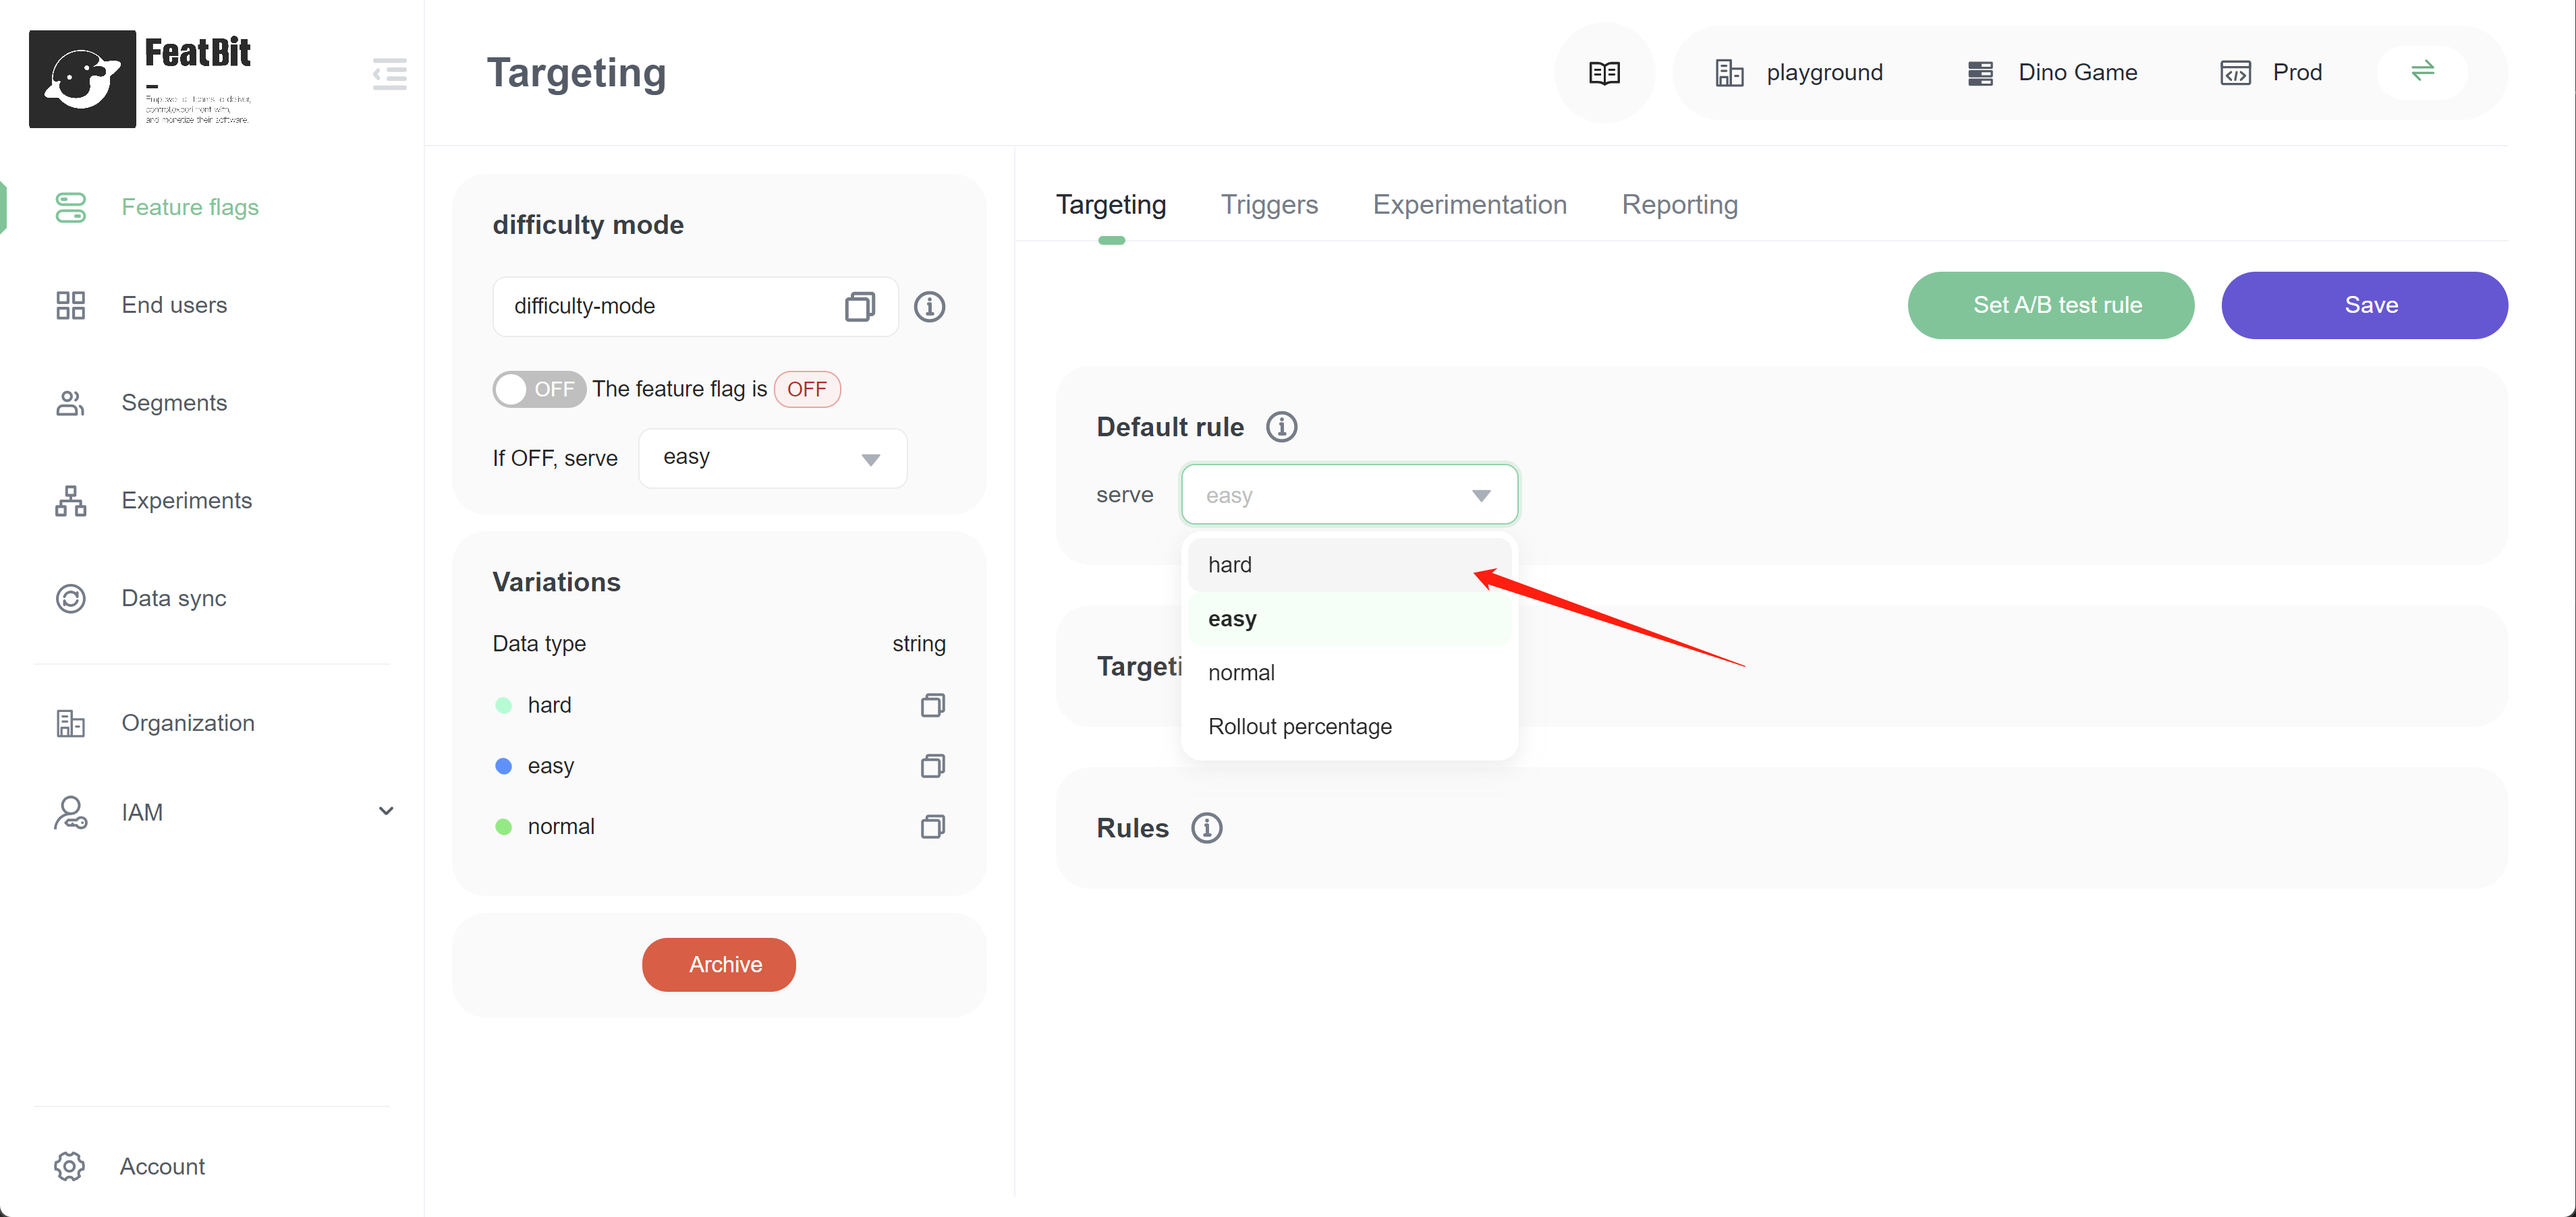
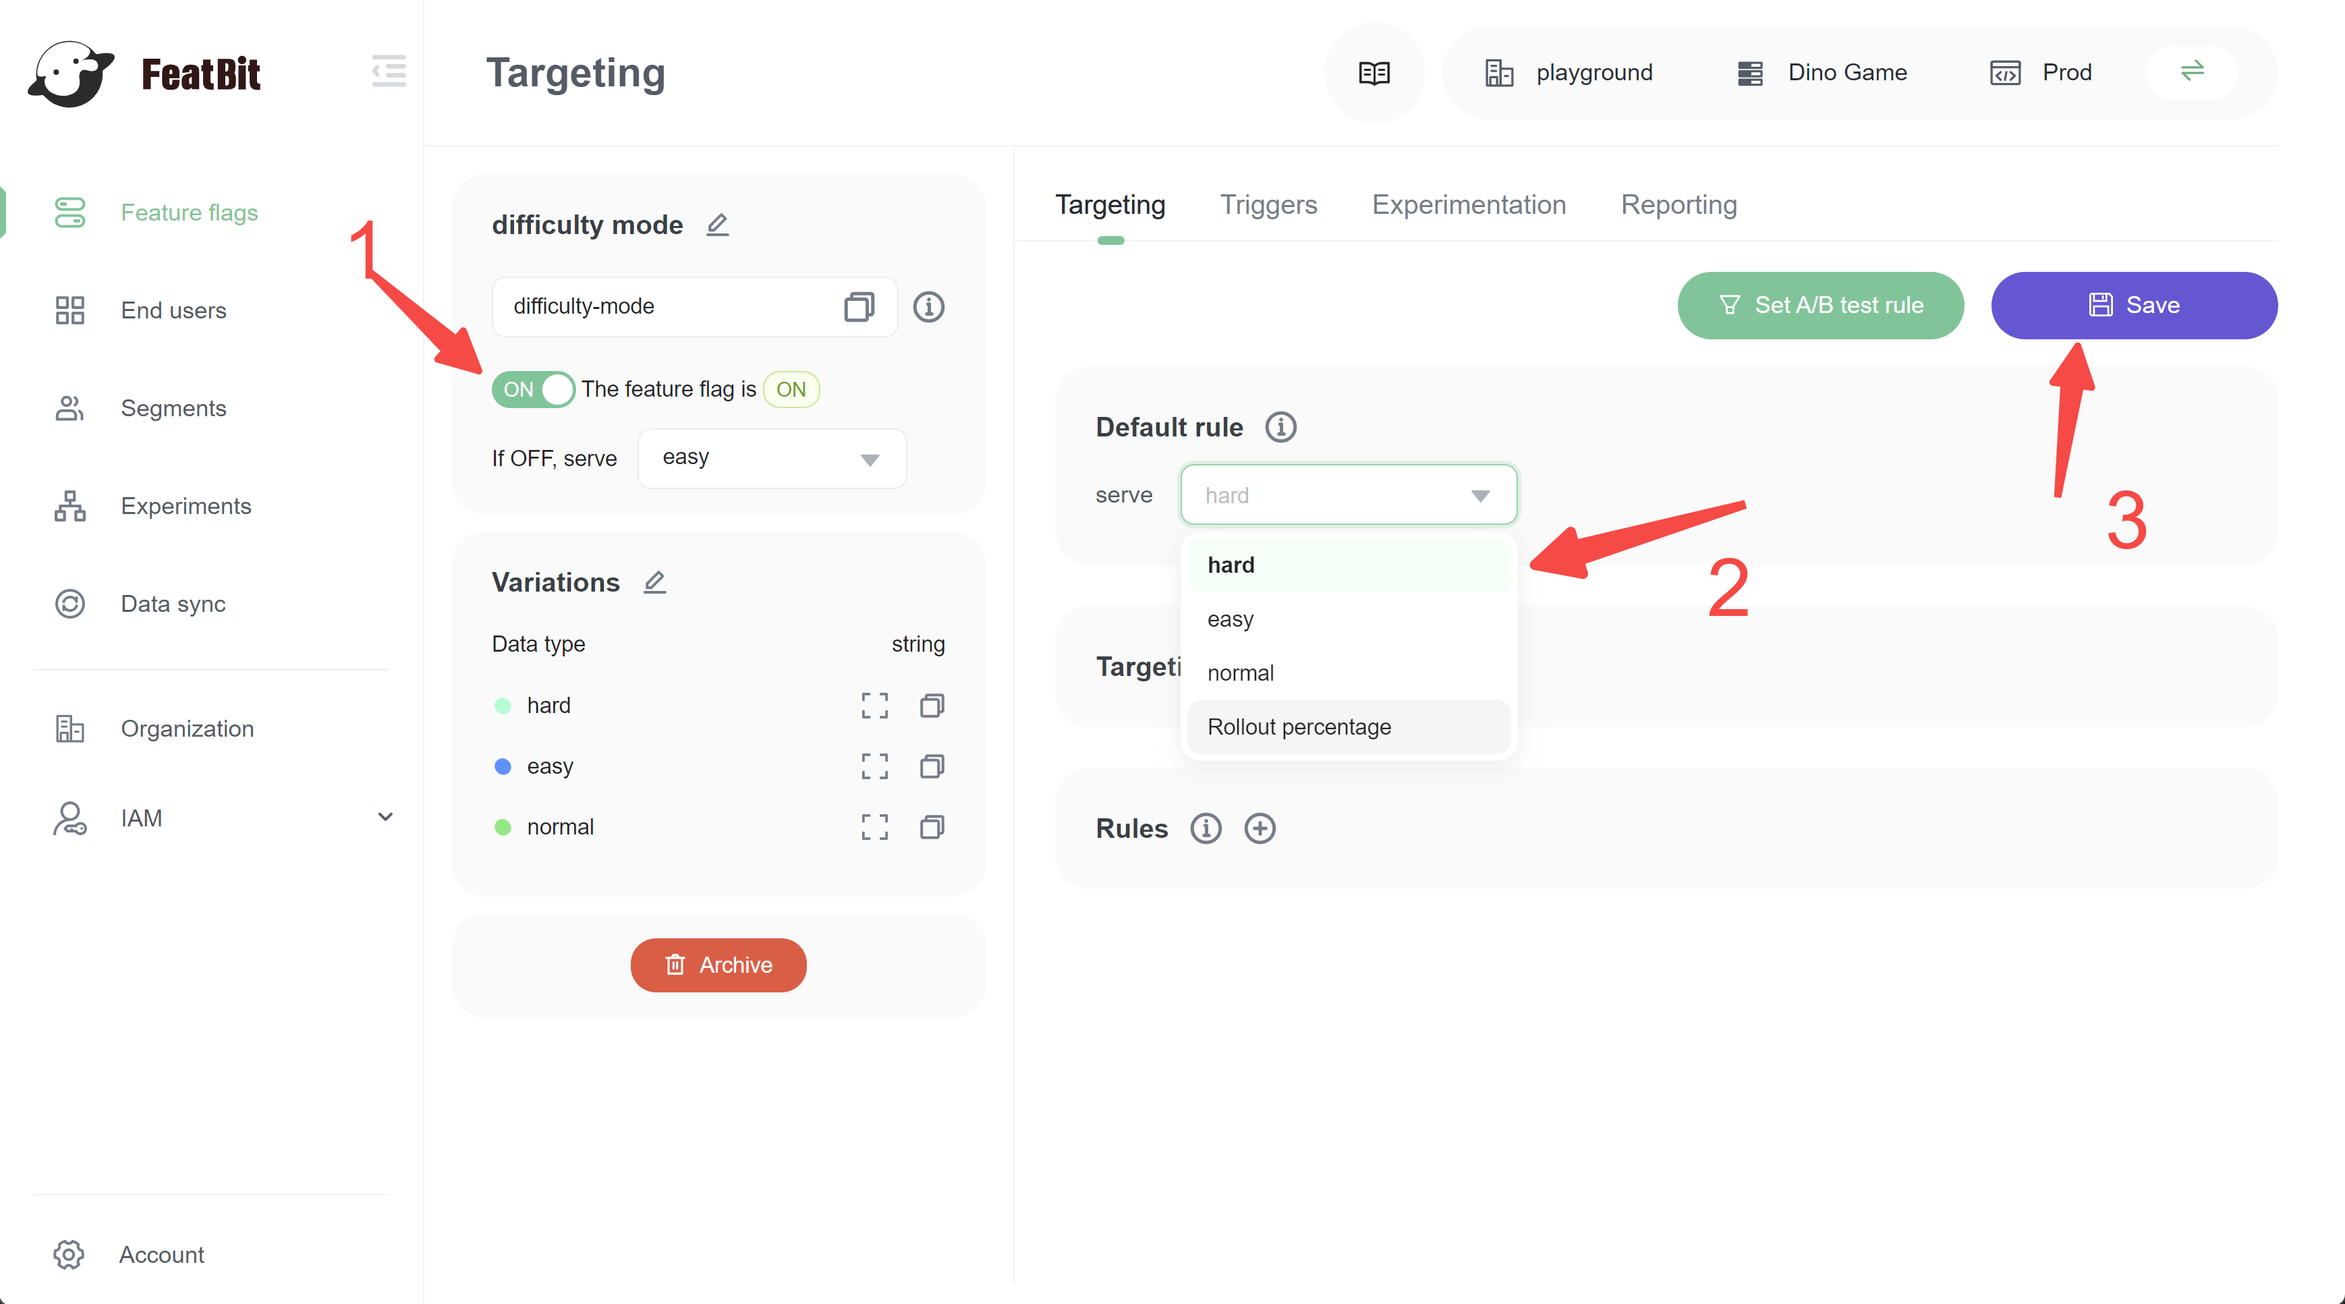
updated

diff --git a/samples/dino-game/interactive-demo-react/src/features/guides/components/StepComplete.js b/samples/dino-game/interactive-demo-react/src/features/guides/components/StepComplete.js
@@ -24,17 +24,17 @@ export function StepComplete() {
             <div className="steps">
                 <div >
                     <p>Congratulations! You have completed the Interactive Demo section of the Quick start section</p>
-                    <p>Next, we recommend that you check out the <a>Connect an SDK</a> section for a quick overview of how to use FeatBit to connect the Feature flags we've connected in this demo!
+                    <p>Next, we recommend that you check out the <a href="https://featbit.gitbook.io/docs/get-started/connect-an-sdk">Connect an SDK</a> section for a quick overview of how to use FeatBit to connect the Feature flags we've connected in this demo!
                     </p>
                     <ul>
-                        <li><a>Click here to go to the documentation page for Connect an SDK</a></li>
+                        <li><a href="https://featbit.gitbook.io/docs/get-started/connect-an-sdk">Click here to go to the documentation page of Connect an SDK</a></li>
                         <li><a href="https://github.com/featbit/featbit-samples/tree/main/samples/dino-game/interactive-demo-vue"
                             target="_blank">Click here to download the source code for the Interactive Demo</a></li>
                     </ul>
                     <p>
-                        Or return to the FeatBit portal as shown below and check the Quick Start Panel for the rest of lessons.
+                        Or return to the FeatBit portal and check the Quick Start Panel for the rest of lessons.
                         <br />
-                        Note: The content completed in <a>Connect an SDK</a> will be used in most of the articles in How-to guides
+                        Note: The content completed in <a href="https://featbit.gitbook.io/docs/get-started/connect-an-sdk">Connect an SDK</a> will be used in most of the articles in How-to guides
                     </p>
                     <img src={GetStart} />
                 </div>

diff --git a/samples/dino-game/interactive-demo-vue/src/components/Steps/StepComplete.vue b/samples/dino-game/interactive-demo-vue/src/components/Steps/StepComplete.vue
@@ -26,17 +26,17 @@ export default {
         <div class="steps">
             <div >
                 <p>Congratulations! You have completed the Interactive Demo section of the Quick start section</p>
-                <p>Next, we recommend that you check out the <a>Connect an SDK</a> section for a quick overview of how to use FeatBit to connect the Feature flags we've connected in this demo!
+                <p>Next, we recommend that you check out the <a href="https://featbit.gitbook.io/docs/get-started/connect-an-sdk">Connect an SDK</a> section for a quick overview of how to use FeatBit to connect the Feature flags we've connected in this demo!
                 </p>
                 <ul>
-                    <li><a>Click here to go to the documentation page for Connect an SDK</a></li>
+                    <li><a href="https://featbit.gitbook.io/docs/get-started/connect-an-sdk">Click here to go to the documentation page Connect an SDK</a></li>
                     <li><a href="https://github.com/featbit/featbit-samples/tree/main/samples/dino-game/interactive-demo-vue"
                         target="_blank">Click here to download the source code for the Interactive Demo</a></li>
                 </ul>
                 <p>
-                    Or return to the FeatBit portal as shown below and check the Quick Start Panel for the rest of lessons.
+                    Or return to the FeatBit portal and check the Quick Start Panel for the rest of lessons.
                     <br/>
-                    Note: The content completed in <a>Connect an SDK</a> will be used in most of the articles in How-to guides
+                    Note: The content completed in <a href="https://featbit.gitbook.io/docs/get-started/connect-an-sdk">Connect an SDK</a> will be used in most of the articles in How-to guides
                 </p>
                 <img src="@/assets/steps/get-started-in-portal.png" />
             </div>

diff --git a/samples/dino-game/interactive-demo-react/src/features/guides/components/StepGameDifficulty.js b/samples/dino-game/interactive-demo-react/src/features/guides/components/StepGameDifficulty.js
@@ -29,8 +29,8 @@ export function StepGameDifficulty() {
                         'normal' mode or 'hard' mode.
                     </p>
                     <p>
-                        Back to the flag list, go to targeting page of feature flag "difficulty mode".
-                        Find the 'Default rule' dropdown. Choose a flag variation (<strong>"hard"</strong> or
+                        Back to the flag list, go to targeting page of feature flag "difficulty mode". Turn on the feature flag, and
+                        find the 'Default rule' dropdown. Choose a flag variation (<strong>"hard"</strong> or
                         <strong>"normal"</strong> but not "easy") from the dropdown and save.
                     </p>
                     <img src={FFSwitchDifficulty} />

diff --git a/samples/dino-game/interactive-demo-vue/src/components/Steps/StepGameDifficulty.vue b/samples/dino-game/interactive-demo-vue/src/components/Steps/StepGameDifficulty.vue
@@ -33,8 +33,8 @@ export default {
                     'normal' mode or 'hard' mode.
                 </p>
                 <p>
-                    Back to the flag list, go to targeting page of feature flag "difficulty mode".
-                    Find the 'Default rule' dropdown. Choose a flag variation (<strong>"hard"</strong> or
+                    Back to the flag list, go to targeting page of feature flag "difficulty mode". Turn on the feature flag, and
+                    find the 'Default rule' dropdown. Choose a flag variation (<strong>"hard"</strong> or
                     <strong>"normal"</strong> but not "easy") from the dropdown and save.
                 </p>
                 <img src="@/assets/steps/ff-switch-difficulty.png" />

diff --git a/samples/dino-game/interactive-demo-react/src/features/guides/Guides.css b/samples/dino-game/interactive-demo-react/src/features/guides/Guides.css
@@ -2,7 +2,7 @@
     margin-left: auto;
     margin-right: auto;
     border: 1px solid gray;
-    width: 720px;
+    width: 880px;
     margin-bottom: 10px;
     margin-top: 10px;
     min-height: 300px;

diff --git a/samples/dino-game/interactive-demo-vue/src/components/Steps/Steps.less b/samples/dino-game/interactive-demo-vue/src/components/Steps/Steps.less
@@ -2,7 +2,7 @@
     margin-left: auto;
     margin-right: auto;
     border: 1px solid gray;
-    width: 720px;
+    width: 880px;
     margin-bottom: 10px;
     margin-top: 10px;
     min-height: 300px;

diff --git a/samples/dino-game/interactive-demo-react/src/features/dinoGame/DinoGame.css b/samples/dino-game/interactive-demo-react/src/features/dinoGame/DinoGame.css
@@ -1,6 +1,6 @@
 .dino-game-wrapper {
     border: 1px solid gray;
-    width: 720px;
+    width: 880px;
     margin-left: auto;
     margin-right: auto;
 }

diff --git a/samples/dino-game/interactive-demo-vue/src/components/DinoGame/DinoGame.less b/samples/dino-game/interactive-demo-vue/src/components/DinoGame/DinoGame.less
@@ -1,6 +1,6 @@
 .dino-game-wrapper {
   border: 1px solid gray;
-  width: 720px;
+  width: 880px;
   margin-left: auto;
   margin-right: auto;
 
